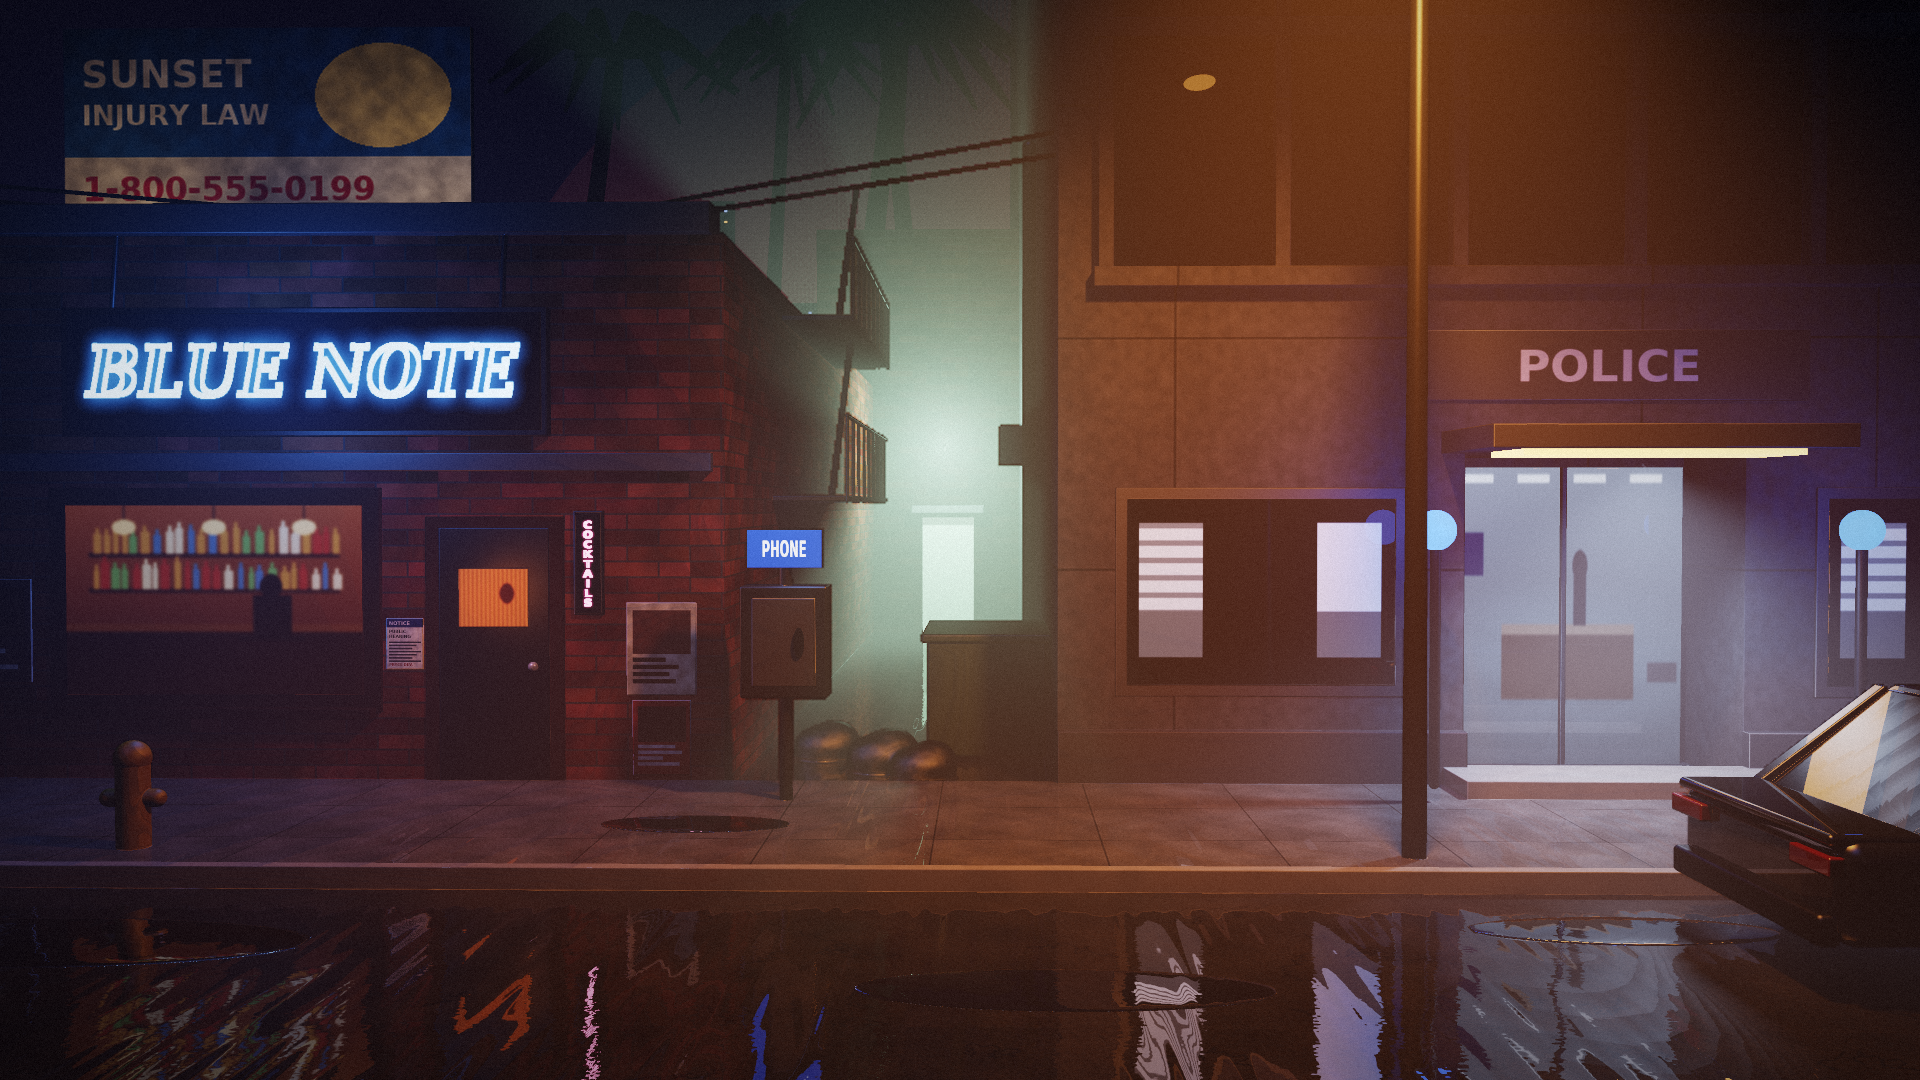
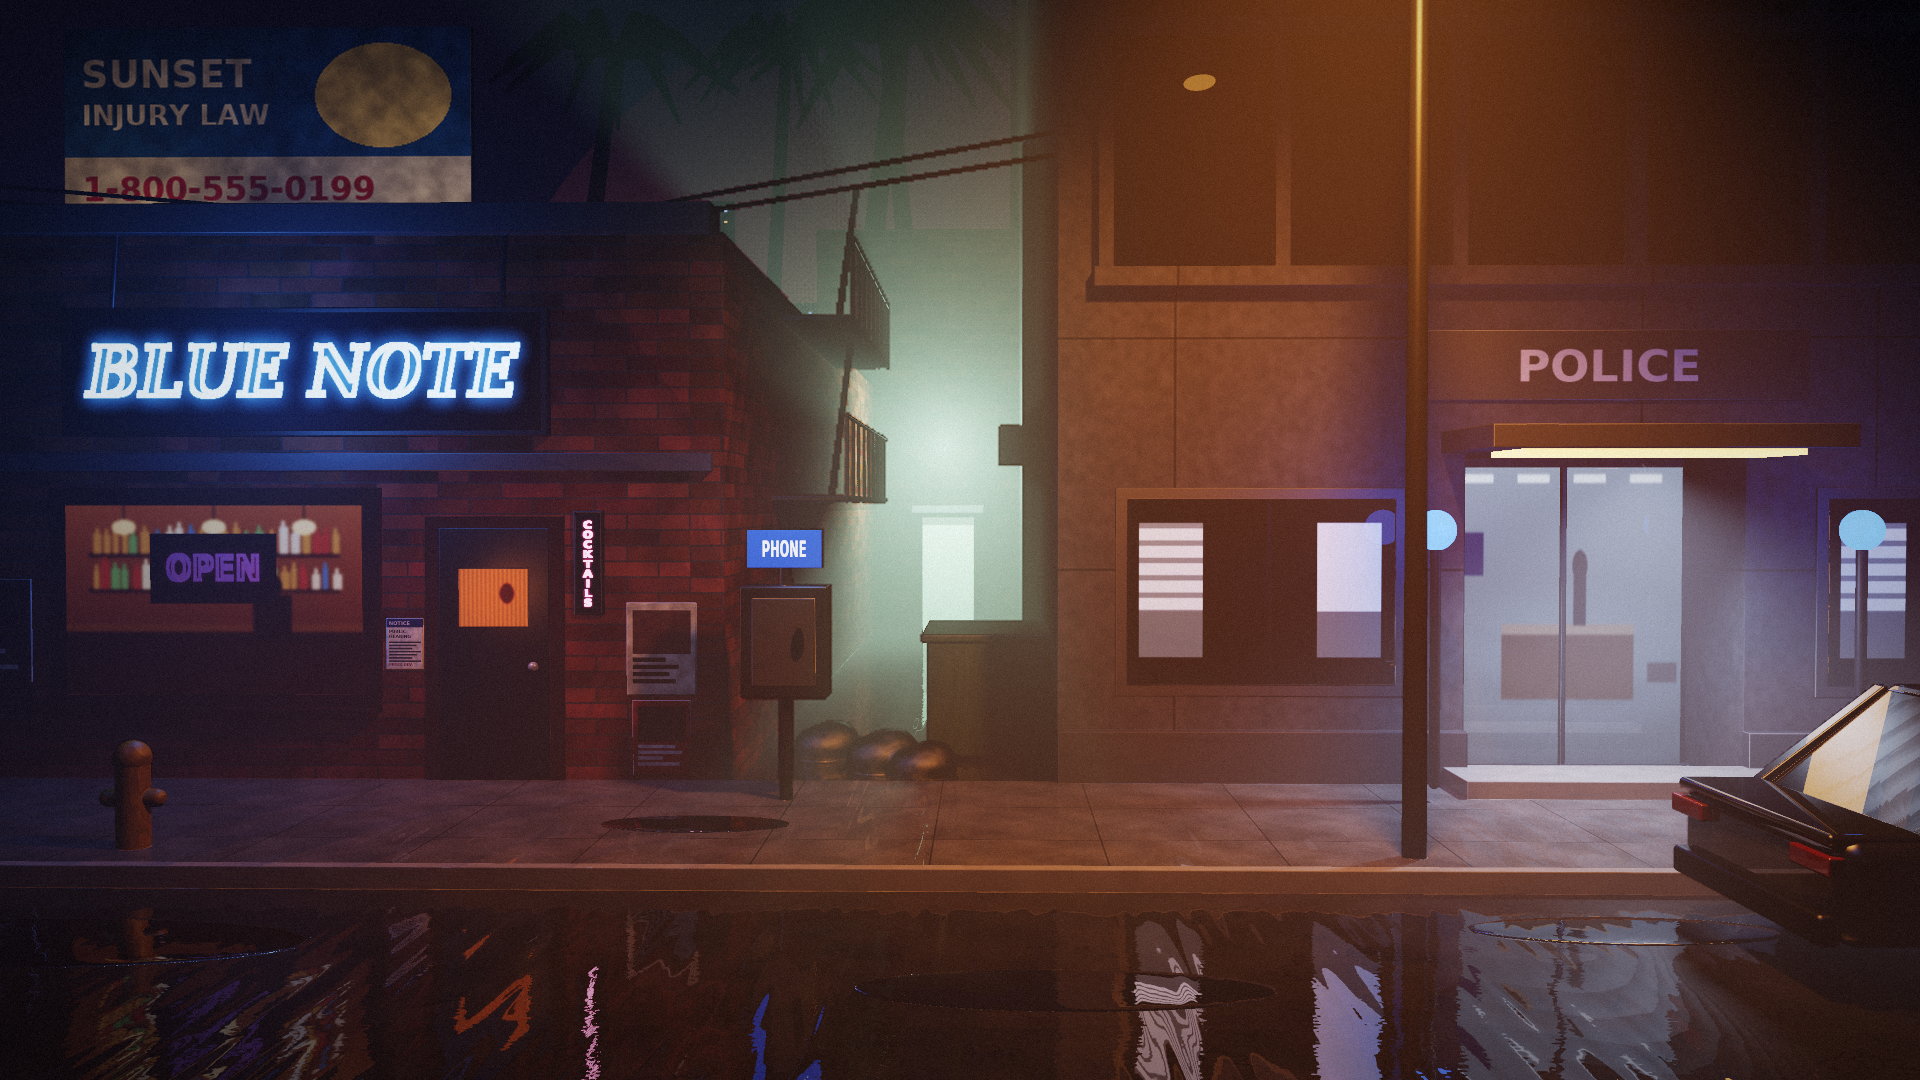
Case 1 street: keep the OPEN sign, switched off

Changed region(s): [[0.0625, 0.4889, 0.1562, 0.5806], [0.0625, 0.9167, 0.1562, 1.0]]

diff --git a/tools/r3/street.py b/tools/r3/street.py
@@ -32,7 +32,7 @@ def build(hide=(), crime=False):
     nm = 1 if crime else 2                                           # the neon is off (unlit glass) the morning Sal died
     S.mat('neon_blue', (20, 20, 30), tex=tx.neon_text('BLUE NOTE', (80, 150, 255), size=72,
           fnt='DejaVuSerif-BoldItalic.ttf'), texmode=nm, texemis=5.0)
-    S.mat('neon_open', (20, 20, 30), tex=tx.neon_text('OPEN', (255, 60, 150), size=48), texmode=nm, texemis=4.0)
+    S.mat('neon_open', (20, 20, 30), tex=tx.neon_text('OPEN', (255, 60, 150), size=48), texmode=1, texemis=4.0)
     S.mat('neon_bar', (20, 20, 30), tex=tx.neon_text('COCKTAILS', (255, 90, 170), size=40, vertical=True), texmode=nm,
           texemis=4.0)
     S.mat('phone_sign', (30, 30, 40), tex=tx.sign_board('PHONE', (220, 235, 255), (30, 70, 160), 256, 64), texmode=3,
@@ -117,8 +117,7 @@ def build(hide=(), crime=False):
         S.wboxr(-7.55, 3.2, 0.18, -3.45, 4.2, 0.2, 'neon_blue')
         for x in (-7.2, -3.8):
             S.cyl((x, 4.25, 0.1), (x, 5.0, 0.0), 0.02, 'metal_dk')
-    if crime:
-        S.wboxr(-6.9, 1.7, 0.07, -5.8, 2.3, 0.08, 'neon_open')       # unlit; in Case 1 the bar is shut, so no sign
+    S.wboxr(-6.9, 1.7, 0.07, -5.8, 2.3, 0.08, 'neon_open')
     # rooftop billboard
     with S.tag('billboard'):
         S.wboxr(-10.0, 5.6, -4.05, -5.4, 7.9, -3.95, 'billboard')
